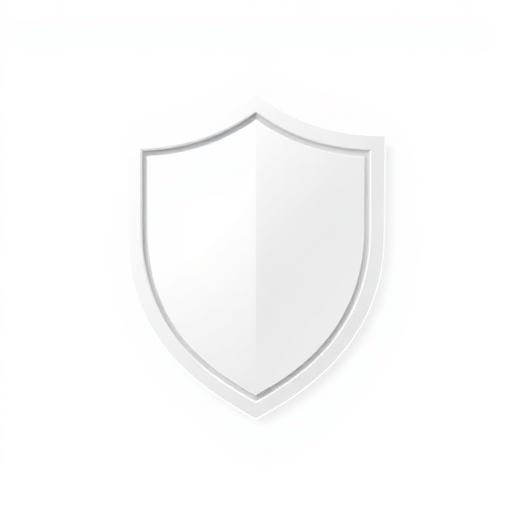
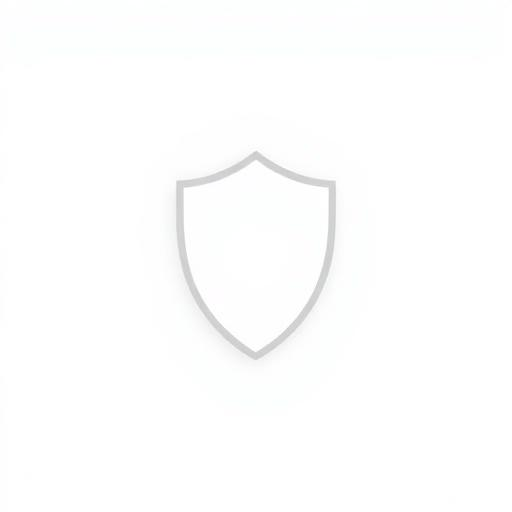
Changes

diff --git a/src/components/HeroSection.tsx b/src/components/HeroSection.tsx
@@ -1,11 +1,10 @@
 import { motion, AnimatePresence } from "framer-motion";
-import { Home, Zap, Sun, Car, ChevronLeft, ChevronRight } from "lucide-react";
+import { Home, Zap, Sun, Car, ChevronLeft, ChevronRight, ShieldCheck } from "lucide-react";
 import { Button } from "@/components/ui/button";
 import { useState, useEffect } from "react";
 import energyFlowVideo from "@/assets/energy-flow.mp4";
 import heroInstallation from "@/assets/hero-installation.jpg";
 import heroFamilySolar from "@/assets/hero-family-solar.jpg";
-import dualCoreShield from "@/assets/dual-core-shield.png";
 
 const features = [
   { icon: Sun, title: "Solar Generation", subtitle: "Harness the sun" },
@@ -184,13 +183,13 @@ export const HeroSection = () => {
               transition={{ delay: 1.1 + index * 0.1, duration: 0.4 }}
               className={`glass rounded-xl p-3 sm:p-4 flex items-center gap-2 sm:gap-3 hover:bg-card/80 transition-colors backdrop-blur-md ${
                 index === features.length - 1 && features.length % 2 !== 0
-                  ? "col-span-2 sm:col-span-1"
+                  ? "col-span-2 sm:col-span-1 justify-self-center w-full max-w-xs"
                   : ""
               }`}
             >
               <div className="w-8 h-8 sm:w-10 sm:h-10 rounded-lg bg-gradient-to-br from-accent to-accent/80 flex items-center justify-center shrink-0">
                 {feature.customIcon ? (
-                  <img src={dualCoreShield} alt="Shield" className="w-5 h-5 sm:w-6 sm:h-6 object-contain" />
+                  <ShieldCheck className="w-4 h-4 sm:w-5 sm:h-5 text-accent-foreground" />
                 ) : (
                   feature.icon && <feature.icon className="w-4 h-4 sm:w-5 sm:h-5 text-accent-foreground" />
                 )}
